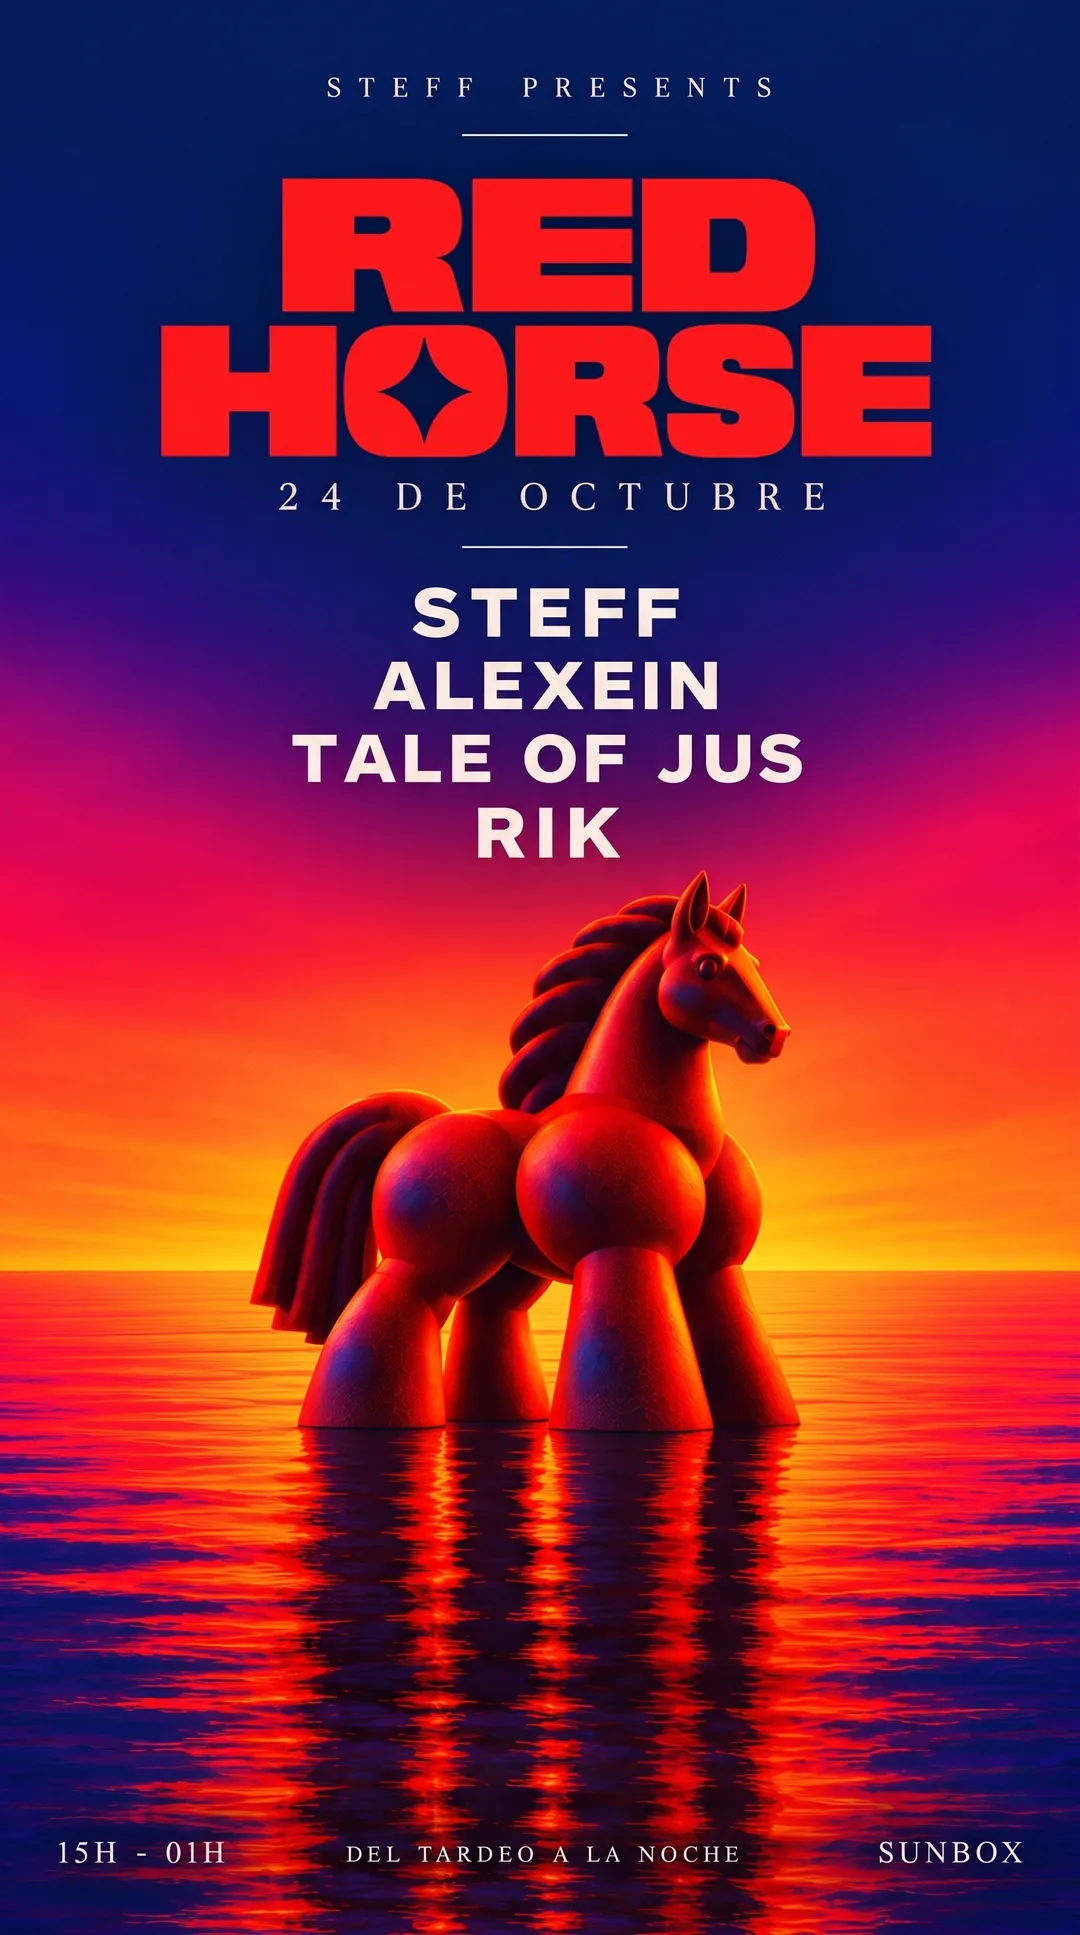
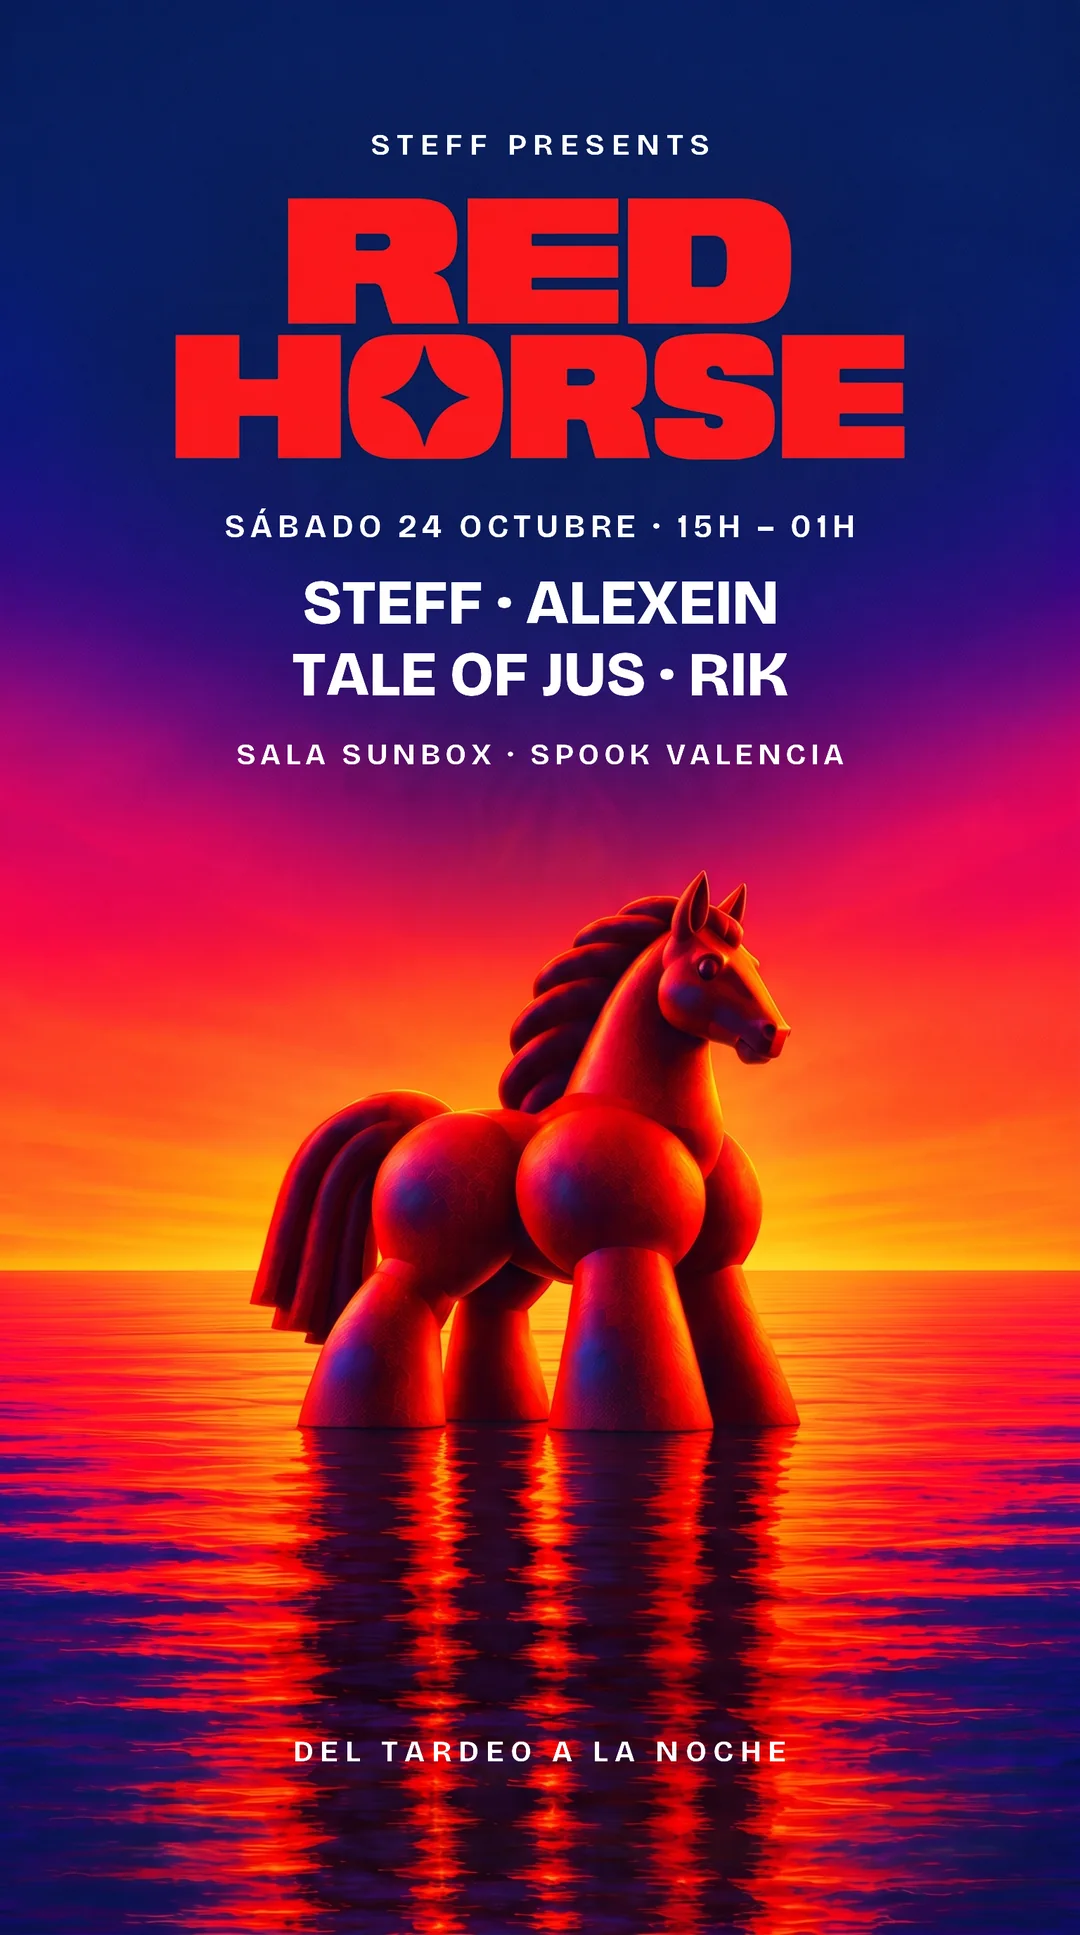
content: new sans flyer (Bricolage) in the event block

diff --git a/index.html b/index.html
@@ -385,7 +385,7 @@
         </div>
 
         <figure class="flyer reveal" data-tilt>
-          <img src="assets/img/flyer.webp" alt="Cartel de Red Horse: Steff presents, 24 de octubre. Line up: Steff, Alexein, Tale Of Jus, Rik. 15H – 01H, del tardeo a la noche, en la Sala Sunbox de Spook Valencia." width="1080" height="1935" loading="lazy">
+          <img src="assets/img/flyer.webp" alt="Cartel de Red Horse: Steff presents. Sábado 24 de octubre, 15H – 01H. Line up: Steff, Alexein, Tale Of Jus, Rik. Sala Sunbox, Spook Valencia. Del tardeo a la noche." width="1080" height="1935" loading="lazy">
           <span class="flyer__glare" aria-hidden="true"></span>
         </figure>
       </div>
